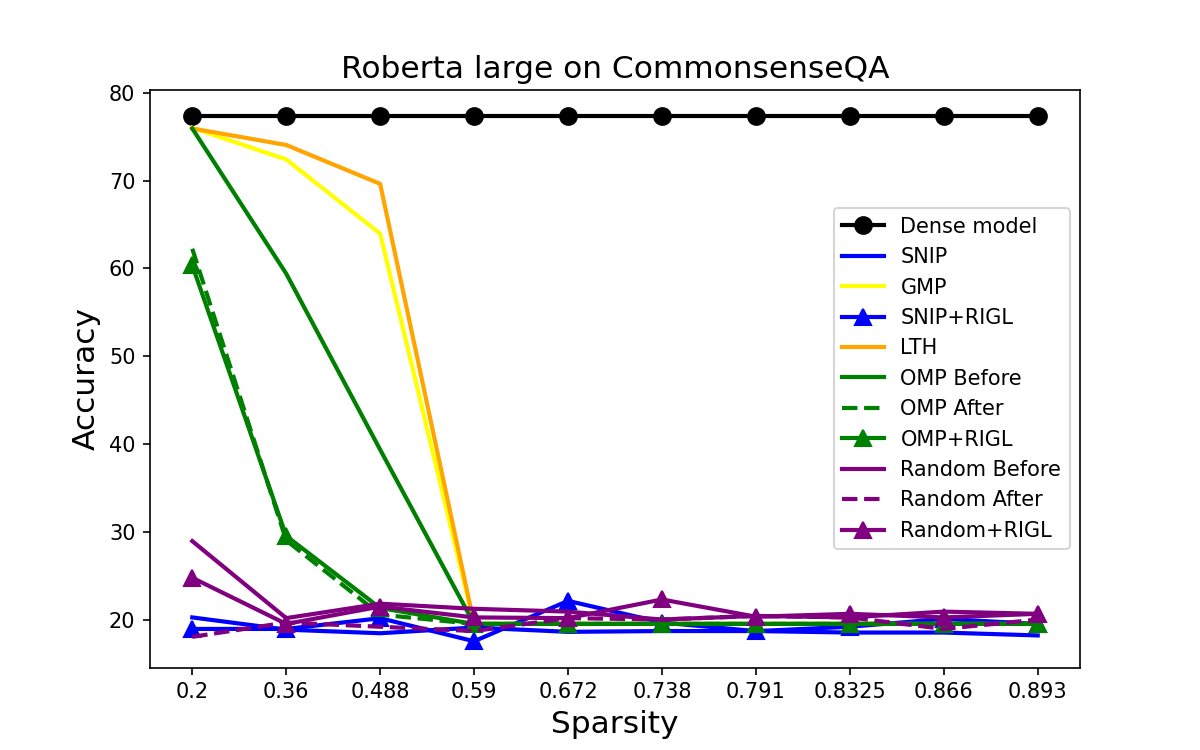
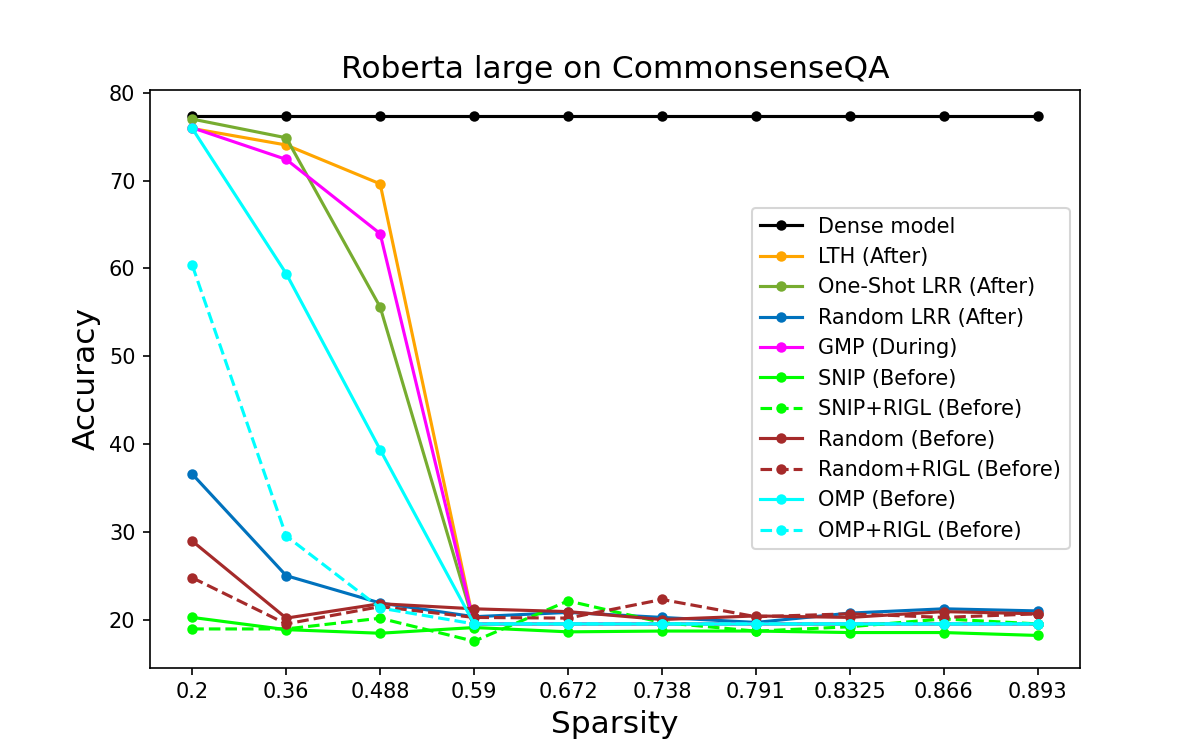
race snip rigl test

diff --git a/plot/race.py b/plot/race.py
@@ -7,7 +7,14 @@ markersize = 3
 linewidth =2
 dense = [77.31]
 
-
+acc_test = []
+acc_test1 = []
+with open('/Users/liushiwei/Projects/TUE_projects/fairseq/results/cobert_race_TEST.out') as file:
+    for line in file:
+        if 'test | valid on' in line:
+            acc_test.append(float(line.split()[19]))
+        if ' | test1 | valid on' in line:
+            acc_test1.append(float(line.split()[19]))
 
 acc_test_random = []
 acc_test_random_high = []
@@ -17,6 +24,16 @@ with open('/Users/liushiwei/Projects/fairseq/results/reasoning/race/cobert_race_
             acc_test_random.append(float(line.split()[19]))
         if ' | test1 | valid on' in line:
             acc_test_random_high.append(float(line.split()[19]))
+
+acc_test_gmp = []
+acc_test_gmp_high = []
+with open('/Users/liushiwei/Projects/fairseq/results/reasoning/race/cobert_race_gmp.out') as file:
+    for line in file:
+        if 'test | valid on' in line:
+            acc_test_gmp.append(float(line.split()[19]))
+        if ' | test1 | valid on' in line:
+            acc_test_gmp_high.append(float(line.split()[19]))
+
 
 acc_test_random_omp_after = []
 acc_test_random_omp_after_high = []
@@ -47,16 +64,16 @@ acc_test_snip.append(26.0)
 
 acc_test_imp_high = [82, 82.6, 81.4, 79.1, 76, 71.6, 63.9, 56.3, 51.6, 36.8 ]
 acc_test_imp_high.append(26.1)
-acc_test_gm_high = acc_test1[10:20]
+acc_test_omp_high = acc_test1[10:20]
 acc_test_snip_high = acc_test1[20:29]
 acc_test_snip_high.append(25.0)
 
 # after
-acc_test_random_after = acc_test_random_omp_after[:10]
-acc_test_omp_after = acc_test_random_omp_after[10:]
+# acc_test_random_after = acc_test_random_omp_after[:10]
+# acc_test_omp_after = acc_test_random_omp_after[10:]
 
-acc_test_random_after_high = acc_test_random_omp_after_high[:10]
-acc_test_omp_after_high = acc_test_random_omp_after_high[10:]
+# acc_test_random_after_high = acc_test_random_omp_after_high[:10]
+# acc_test_omp_after_high = acc_test_random_omp_after_high[10:]
 
 # rigl
 acc_test_random_rigl = acc_test_random_omp_rigl[:10]
@@ -72,21 +89,40 @@ x_axis = range(10)
 # high
 roberta_large = fig.add_subplot(1,1,1)
 roberta_large.plot(x_axis, [acc_test_imp_high[0]]*10,  '-o',   label='Dense model',color='black',linewidth=linewidth, markersize=markersize, )
-roberta_large.plot(x_axis, acc_test_snip_high,  '-',   label='SNIP',color='blue',linewidth=linewidth, markersize=markersize, )
-# roberta_large.plot(x_axis, robert_snip_rigl,  '-',   label='SNIP+RIGL',color='blue',linewidth=linewidth, markersize=markersize, marker='^'  )
-roberta_large.plot(x_axis, acc_test_imp_high[1:],  '-',   label='LTH',color='orange',linewidth=linewidth, markersize=markersize, )
-roberta_large.plot(x_axis, acc_test_gm_high,  '-',   label='OMP Before',color='green',linewidth=linewidth, markersize=markersize, )
-roberta_large.plot(x_axis, acc_test_omp_after_high,  '--',   label='OMP After',color='green',linewidth=linewidth, markersize=markersize, )
-roberta_large.plot(x_axis, acc_test_omp_rigl_high,  '-',   label='OMP+RIGL',color='green',linewidth=linewidth, markersize=markersize, marker='^' )
-roberta_large.plot(x_axis, acc_test_random_high,  '-',   label='Random Before',color='purple',linewidth=linewidth, markersize=markersize, )
-roberta_large.plot(x_axis, acc_test_random_after_high,  '--',   label='Random After',color='purple',linewidth=linewidth, markersize=markersize, )
-roberta_large.plot(x_axis, acc_test_random_rigl_high,  '-',   label='Random+RIGL',color='purple',linewidth=linewidth, markersize=markersize, marker='^' )
+roberta_large.plot(x_axis, acc_test_imp_high[1:],  '-o',   label='LTH (After)',color='orange',linewidth=linewidth, markersize=markersize, )
+# roberta_large.plot(x_axis, acc_test_omp_after_high,  '-o',   label='One-Shot LRR (After)',color='#77AC30',linewidth=linewidth, markersize=markersize, )
+# roberta_large.plot(x_axis, acc_test_random_after_high,  '-o',   label='Random LRR (After)',color='#0072BD',linewidth=linewidth, markersize=markersize, )
+roberta_large.plot(x_axis, acc_test_gmp_high,  '-o',   label='GMP (During)',color='magenta',linewidth=linewidth, markersize=markersize, )
+
+
+roberta_large.plot(x_axis, acc_test_snip_high,  '-o',   label='SNIP (Before)',color='#00FF00',linewidth=linewidth, markersize=markersize, )
+# roberta_large.plot(x_axis, robert_snip_rigl,  '--o',   label='SNIP+RIGL (Before)',color='#00FF00',linewidth=linewidth, markersize=markersize )
+roberta_large.plot(x_axis, acc_test_random_high,  '-o',   label='Random (Before)',color='brown',linewidth=linewidth, markersize=markersize, )
+roberta_large.plot(x_axis, acc_test_random_rigl_high,  '--o',   label='Random+RIGL (Before)',color='brown',linewidth=linewidth, markersize=markersize)
+roberta_large.plot(x_axis, acc_test_omp_high,  '-o',   label='OMP (Before)' ,color='cyan',linewidth=linewidth, markersize=markersize, )
+roberta_large.plot(x_axis, acc_test_omp_rigl_high,  '--o',   label='OMP+RIGL (Before)',color='cyan',linewidth=linewidth, markersize=markersize )
+
+
+
+# roberta_large = fig.add_subplot(1,1,1)
+# roberta_large.plot(x_axis, [acc_test_imp_high[0]]*10,  '-o',   label='Dense model',color='black',linewidth=linewidth, markersize=markersize, )
+# roberta_large.plot(x_axis, acc_test_snip_high,  '-',   label='SNIP',color='blue',linewidth=linewidth, markersize=markersize, )
+# roberta_large.plot(x_axis, acc_test_gmp_high,  '-',   label='GMP',color='yellow',linewidth=linewidth, markersize=markersize, )
+# # roberta_large.plot(x_axis, robert_snip_rigl,  '-',   label='SNIP+RIGL',color='blue',linewidth=linewidth, markersize=markersize, marker='^'  )
+# roberta_large.plot(x_axis, acc_test_imp_high[1:],  '-',   label='LTH',color='orange',linewidth=linewidth, markersize=markersize, )
+# roberta_large.plot(x_axis, acc_test_gm_high,  '-',   label='OMP Before',color='green',linewidth=linewidth, markersize=markersize, )
+# roberta_large.plot(x_axis, acc_test_omp_after_high,  '--',   label='OMP After',color='green',linewidth=linewidth, markersize=markersize, )
+# roberta_large.plot(x_axis, acc_test_omp_rigl_high,  '-',   label='OMP+RIGL',color='green',linewidth=linewidth, markersize=markersize, marker='^' )
+# roberta_large.plot(x_axis, acc_test_random_high,  '-',   label='Random Before',color='purple',linewidth=linewidth, markersize=markersize, )
+# roberta_large.plot(x_axis, acc_test_random_after_high,  '--',   label='Random After',color='purple',linewidth=linewidth, markersize=markersize, )
+# roberta_large.plot(x_axis, acc_test_random_rigl_high,  '-',   label='Random+RIGL',color='purple',linewidth=linewidth, markersize=markersize, marker='^' )
 
 # middle
 
 # roberta_large = fig.add_subplot(1,1,1)
 # roberta_large.plot(x_axis, [acc_test_imp[0]]*10,  '-o',   label='Dense model',color='black',linewidth=linewidth, markersize=markersize, )
 # roberta_large.plot(x_axis, acc_test_snip,  '-',   label='SNIP',color='blue',linewidth=linewidth, markersize=markersize, )
+# roberta_large.plot(x_axis, acc_test_gmp,  '-',   label='GMP',color='yellow',linewidth=linewidth, markersize=markersize, )
 # # roberta_large.plot(x_axis, robert_snip_rigl,  '-',   label='SNIP+RIGL',color='blue',linewidth=linewidth, markersize=markersize, marker='^'  )
 # roberta_large.plot(x_axis, acc_test_imp[1:],  '-',   label='LTH',color='orange',linewidth=linewidth, markersize=markersize, )
 # roberta_large.plot(x_axis, acc_test_gm,  '-',   label='OMP Before',color='green',linewidth=linewidth, markersize=markersize, )
@@ -104,5 +140,5 @@ roberta_large.set_xticklabels(np.array( [0.2, 0.36, 0.488, 0.590, 0.672, 0.738, 
 roberta_large.set_ylabel('Accuracy', fontsize=fontsize)
 roberta_large.set_xlabel('sparsity',fontsize=fontsize)
 plt.legend()
-plt.savefig('Roberta_race_high_high.png')
+plt.savefig('Roberta_race_high.png')
 plt.show()

diff --git a/plot/Commonsense_qa.py b/plot/Commonsense_qa.py
@@ -3,22 +3,22 @@ import numpy as np
 from matplotlib.pyplot import figure
 fig = figure(num=None, figsize=(8, 5), dpi=150, facecolor='w', edgecolor='k')
 fontsize = 15
-markersize = 8
-linewidth = 2
+markersize = 4
+linewidth = 1.5
 dense = [77.31]
 
 robert_lth = [75.92, 74.04, 69.62, 19.57, 19.57, 19.57, 19.57, 19.57, 19.57, 19.57]
 x_lth = [0.2, 0.36, 0.488, 0.590, 0.672, 0.738, 0.791, 0.8325, 0.866, 0.893]
 
 robert_snip = [20.31, 18.92, 18.51, 19.16, 18.67, 18.76, 18.76, 18.59, 18.59, 18.26]
-robert_gmp = [76.00, 72.40, 63.96, 19.57, 19.57, 19.57, 19.57, 19.57, 19.57, 19.57]
+robert_gmp  = [76.00, 72.40, 63.96, 19.57, 19.57, 19.57, 19.57, 19.57, 19.57, 19.57]
 robert_snip_rigl = [19.00, 19.00, 20.22, 17.60, 22.19, 19.73, 18.75, 19.25, 20.14, 19.57]
 robert_gm_before = [75.92, 59.41, 39.39, 19.57, 19.57, 19.57, 19.57, 19.57, 19.57, 19.57]
-robert_gm_after = [62.24, 29.07, 20.63, 19.57, 19.57, 19.57, 19.57, 19.57, 19.57, 19.57]
-robert_gm_rigl = [60.36, 29.57, 21.38, 19.57, 19.57, 19.57, 19.57, 19.57, 19.57, 19.57]
+robert_gm_after  = [76.99, 74.86, 55.61, 19.57, 19.57, 19.57, 19.57, 19.57, 19.57, 19.57]
+robert_gm_rigl   = [60.36, 29.57, 21.38, 19.57, 19.57, 19.57, 19.57, 19.57, 19.57, 19.57]
 robert_random_before = [28.99, 20.23, 21.87, 21.29, 20.97, 20.07, 20.48, 20.31, 20.97, 20.72]
-robert_random_rigl = [24.82, 19.57, 21.54, 20.31, 20.23, 22.35, 20.39, 20.72, 20.31, 20.72]
-robert_random_after  =  [18.10, 19.73, 19.25, 18.76, 20.23, 20.07, 20.48, 20.31, 19.00, 20.07]
+robert_random_rigl   = [24.82, 19.57, 21.54, 20.31, 20.23, 22.35, 20.39, 20.72, 20.31, 20.72]
+robert_random_after  = [36.61, 25.06, 21.95, 20.39, 20.88, 20.31, 19.74, 20.80, 21.29, 21.05]
 # 0.02 0.05 0.1 ... 0.9 0.95
 x_axis = range(10)
 
@@ -26,16 +26,19 @@ x_axis = range(10)
 # prune
 roberta_large = fig.add_subplot(1,1,1)
 roberta_large.plot(x_axis, dense*10,  '-o',   label='Dense model',color='black',linewidth=linewidth, markersize=markersize, )
-roberta_large.plot(x_axis, robert_snip,  '-',   label='SNIP',color='blue',linewidth=linewidth, markersize=markersize, )
-roberta_large.plot(x_axis, robert_gmp,  '-',   label='GMP',color='yellow',linewidth=linewidth, markersize=markersize, )
-roberta_large.plot(x_axis, robert_snip_rigl,  '-',   label='SNIP+RIGL',color='blue',linewidth=linewidth, markersize=markersize, marker='^'  )
-roberta_large.plot(x_axis, robert_lth,  '-',   label='LTH',color='orange',linewidth=linewidth, markersize=markersize, )
-roberta_large.plot(x_axis, robert_gm_before,  '-',   label='OMP Before',color='green',linewidth=linewidth, markersize=markersize, )
-roberta_large.plot(x_axis, robert_gm_after,  '--',   label='OMP After',color='green',linewidth=linewidth, markersize=markersize, )
-roberta_large.plot(x_axis, robert_gm_rigl,  '-',   label='OMP+RIGL',color='green',linewidth=linewidth, markersize=markersize, marker='^' )
-roberta_large.plot(x_axis, robert_random_before,  '-',   label='Random Before',color='purple',linewidth=linewidth, markersize=markersize, )
-roberta_large.plot(x_axis, robert_random_after,  '--',   label='Random After',color='purple',linewidth=linewidth, markersize=markersize, )
-roberta_large.plot(x_axis, robert_random_rigl,  '-',   label='Random+RIGL',color='purple',linewidth=linewidth, markersize=markersize, marker='^' )
+roberta_large.plot(x_axis, robert_lth,  '-o',   label='LTH (After)',color='orange',linewidth=linewidth, markersize=markersize, )
+roberta_large.plot(x_axis, robert_gm_after,  '-o',   label='One-Shot LRR (After)',color='#77AC30',linewidth=linewidth, markersize=markersize, )
+roberta_large.plot(x_axis, robert_random_after,  '-o',   label='Random LRR (After)',color='#0072BD',linewidth=linewidth, markersize=markersize, )
+roberta_large.plot(x_axis, robert_gmp,  '-o',   label='GMP (During)',color='magenta',linewidth=linewidth, markersize=markersize, )
+
+
+roberta_large.plot(x_axis, robert_snip,  '-o',   label='SNIP (Before)',color='#00FF00',linewidth=linewidth, markersize=markersize, )
+roberta_large.plot(x_axis, robert_snip_rigl,  '--o',   label='SNIP+RIGL (Before)',color='#00FF00',linewidth=linewidth, markersize=markersize )
+roberta_large.plot(x_axis, robert_random_before,  '-o',   label='Random (Before)',color='brown',linewidth=linewidth, markersize=markersize, )
+roberta_large.plot(x_axis, robert_random_rigl,  '--o',   label='Random+RIGL (Before)',color='brown',linewidth=linewidth, markersize=markersize)
+roberta_large.plot(x_axis, robert_gm_before,  '-o',   label='OMP (Before)' ,color='cyan',linewidth=linewidth, markersize=markersize, )
+roberta_large.plot(x_axis, robert_gm_rigl,  '--o',   label='OMP+RIGL (Before)',color='cyan',linewidth=linewidth, markersize=markersize )
+
 
 
 roberta_large.set_title('Roberta large on CommonsenseQA',fontsize=fontsize)

diff --git a/plot/winogrande.py b/plot/winogrande.py
@@ -3,8 +3,8 @@ import numpy as np
 from matplotlib.pyplot import figure
 fig = figure(num=None, figsize=(8, 5), dpi=150, facecolor='w', edgecolor='k')
 fontsize = 15
-markersize = 8
-linewidth =2
+markersize = 4
+linewidth = 1.5
 dense = [77.31]
 
 acc_gm = []
@@ -84,18 +84,22 @@ x_axis = range(10)
 
 # prune
 roberta_large = fig.add_subplot(1,1,1)
-roberta_large.plot(x_axis, acc_snip,  '-',   label='SNIP',color='blue',linewidth=linewidth, markersize=markersize, )
-roberta_large.plot(x_axis, acc_snip_rigl,  '-',   label='SNIP+RIGL',color='blue',linewidth=linewidth, markersize=markersize, marker='^'  )
-roberta_large.plot(x_axis, acc_imp[1:],  '-',   label='LTH',color='orange',linewidth=linewidth, markersize=markersize, )
-roberta_large.plot(x_axis, acc_gmp,  '-',   label='GMP',color='yellow',linewidth=linewidth, markersize=markersize, )
-roberta_large.plot(x_axis, acc_gm,  '-',   label='OMP Before',color='green',linewidth=linewidth, markersize=markersize, )
-roberta_large.plot(x_axis, acc_omg_after,  '--',   label='OMP After',color='green',linewidth=linewidth, markersize=markersize, )
-roberta_large.plot(x_axis, acc_omp_rigl,  '-',   label='OMP+RIGL',color='green',linewidth=linewidth, markersize=markersize, marker='^' )
-roberta_large.plot(x_axis, acc_random,  '-',   label='Random Before',color='purple',linewidth=linewidth, markersize=markersize, )
-roberta_large.plot(x_axis, acc_random_after,  '--',   label='Random After',color='purple',linewidth=linewidth, markersize=markersize, )
-roberta_large.plot(x_axis, acc_random_rigl,  '-',   label='Random+RIGL',color='purple',linewidth=linewidth, markersize=markersize, marker='^' )
-
 roberta_large.plot(x_axis, [acc_imp[0]]*10,  '-o',   label='Dense model',color='black',linewidth=linewidth, markersize=markersize, )
+roberta_large.plot(x_axis, acc_imp[1:],  '-o',   label='LTH (After)',color='orange',linewidth=linewidth, markersize=markersize, )
+roberta_large.plot(x_axis, acc_omg_after,  '-o',   label='One-Shot LRR (After)',color='#77AC30',linewidth=linewidth, markersize=markersize, )
+roberta_large.plot(x_axis, acc_random_after,  '-o',   label='Random LRR (After)',color='#0072BD',linewidth=linewidth, markersize=markersize, )
+roberta_large.plot(x_axis, acc_gmp,  '-o',   label='GMP (During)',color='magenta',linewidth=linewidth, markersize=markersize, )
+
+
+roberta_large.plot(x_axis, acc_snip,  '-o',   label='SNIP (Before)',color='#00FF00',linewidth=linewidth, markersize=markersize, )
+roberta_large.plot(x_axis, acc_snip_rigl,  '--o',   label='SNIP+RIGL (Before)',color='#00FF00',linewidth=linewidth, markersize=markersize )
+roberta_large.plot(x_axis, acc_random,  '-o',   label='Random (Before)',color='brown',linewidth=linewidth, markersize=markersize, )
+roberta_large.plot(x_axis, acc_random_rigl,  '--o',   label='Random+RIGL (Before)',color='brown',linewidth=linewidth, markersize=markersize)
+roberta_large.plot(x_axis, acc_gm,  '-o',   label='OMP (Before)' ,color='cyan',linewidth=linewidth, markersize=markersize, )
+roberta_large.plot(x_axis, acc_omp_rigl,  '--o',   label='OMP+RIGL (Before)',color='cyan',linewidth=linewidth, markersize=markersize )
+
+
+# roberta_large.plot(x_axis, [acc_imp[0]]*10,  '-o',   label='Dense model',color='black',linewidth=linewidth, markersize=markersize, )
 # vgg_all.plot(x_axis, [50]*11,  '-o',   label='random guess',color='gray',linewidth=3, markersize=markersize, )
 roberta_large.set_title('Roberta Large on WinoGrande',fontsize=fontsize)
 roberta_large.set_xticks(range(10))
